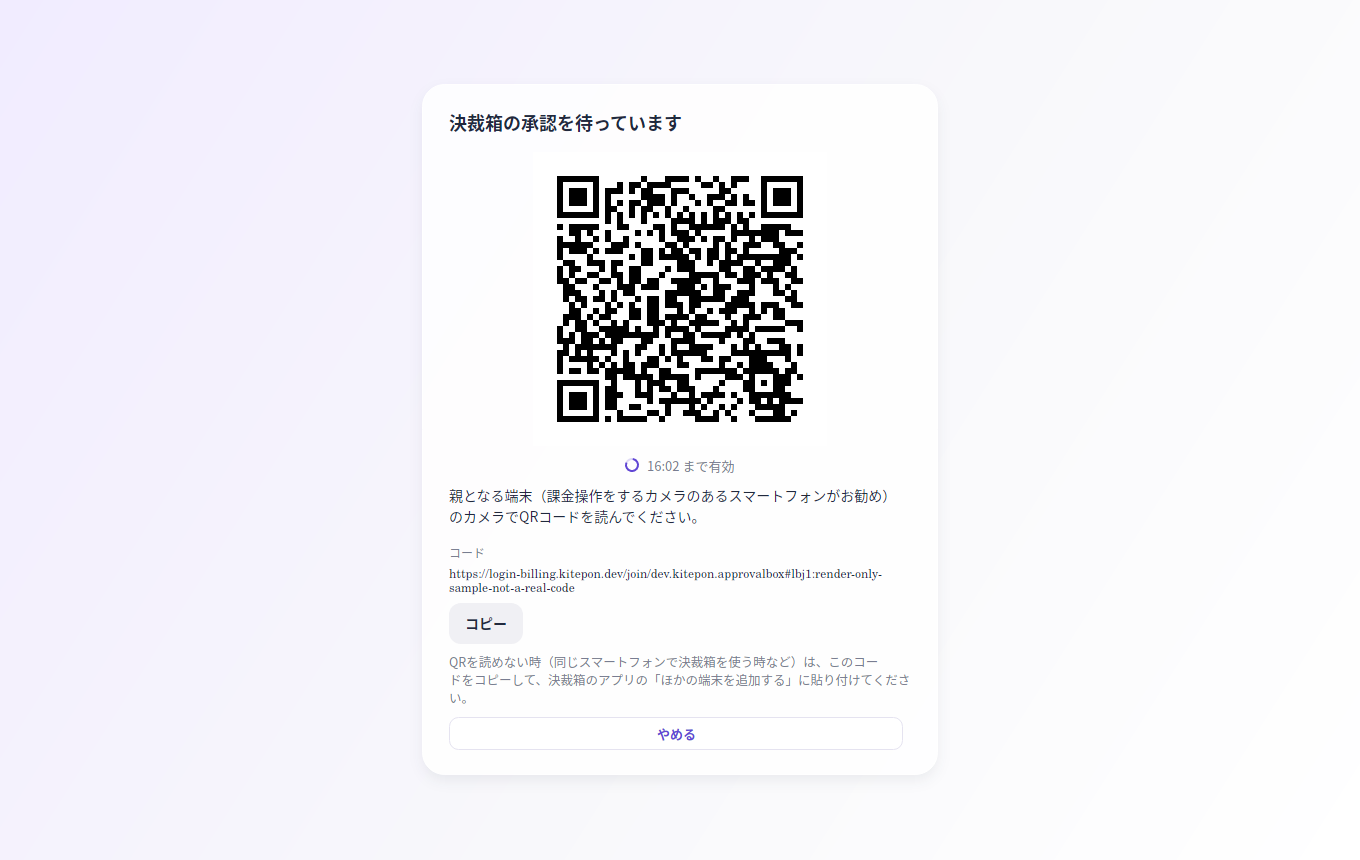
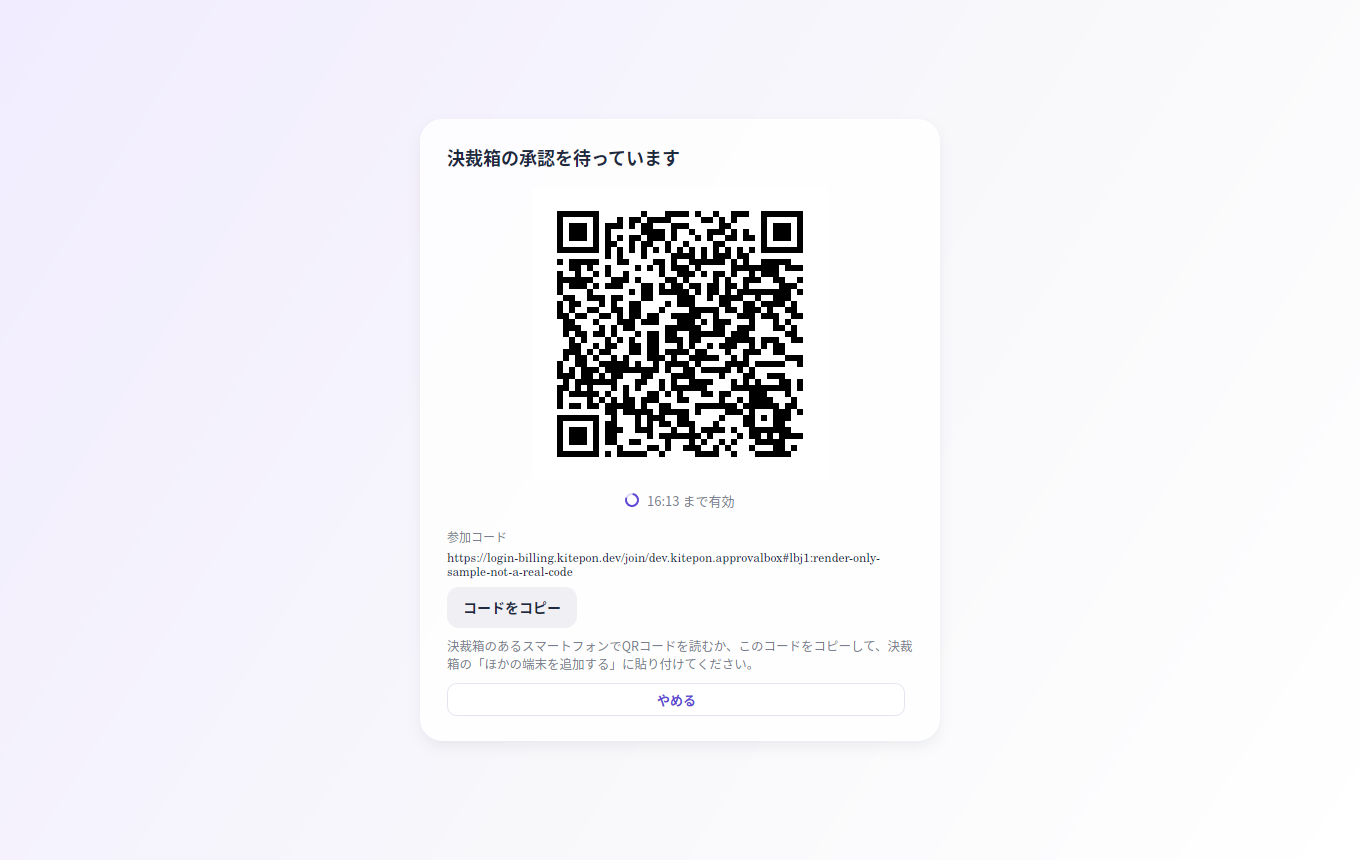
Screens and docs for the phone's open-in-決裁箱 action

Changed region(s): [[0.3088, 0.1209, 0.6485, 0.8767], [0.5868, 0.5744, 0.6485, 0.6047], [0.6485, 0.7256, 0.6794, 0.7558]]

diff --git a/docs/linux-architecture.md b/docs/linux-architecture.md
@@ -145,7 +145,7 @@ Mac版と同じ構成で、[Windowsアーキテクチャ](windows-architecture.m
 - AIの設定のClaudeの行は、枠名が「1つ目のアカウント」「2つ目のアカウント」（`AccountText.SlotName`）、上限は1行（`AccountText.LimitLine`。「上限中・M/D HH:mmに戻ります（いまは2つ目で動いています）」）、使っているメンバーは人数だけを出す（`AccountText.UsersLine`。Botの`account`から「いまN人がこのアカウントで動いています」、古い本体は「N人が使用」。名前もidも並べない。[settings-user-flow](architecture/modules/apple/settings-user-flow.md) B20。Windowsと同じ読み）。
 - 工程表の過去ログ（a457。契約は[Lattice](architecture/modules/lattice/README.md)の`history`と画面仕様の過去ログ、読み方はCoreの`LatticeHistoryFeed`・`LatticeChart.WithHistory`。AndroidはこのLinuxの画面をそのまま使う）：スナップショットの`cards`は開いたツリーだけで、閉じたツリーの終わった工程は`GET /api/lattice/charts/:id/history`から、**過去ログを開いた時だけ**読む（開いた時に1頁（limit 50）、一覧の末尾までスクロールしたら`next`で次の頁）。切り替えの数は`cards`の終わった工程＋`history.closed`で、要求は要らない。同じidはスナップショットの札を採り、頁の人物は名簿に足す。`history.closed`が開いている間に変われば頁を捨てて先頭頁を読み直し、過去ログを離れる・工程表を替える・閉じると頁を捨てる（保存しない）。頁が読めなければ今ある行を残し、末尾に「続きを読めませんでした。」と「読み直す」を出し、1, 2, 4 … 30秒で自動に読み直し続ける（読み直すは待たずに今すぐ）。404（古いサーバー）はその工程表では以後頁を求めず、スナップショットの行だけを出す。詳細は頁の札のまま開き、前の工程は出さない。ツリー・担当・数・段・線は今まで通り。
 - 工程表一覧の催促バッジ（chart-nudge-badge-linux、オーナー 2026-11-27。AndroidはこのLinuxの画面をそのまま使う）：`GET /api/lattice/charts`の各行の`reminders`（Lattice L25。スナップショットとSSEには無いので、一覧を読み直した時に変わる）が`true`の工程表のカード（ピン留めも「すべての工程表」も）に、接続バッジの右へ鐘の「催促」バッジを出す。`false`と項目なしは出さない（Core `LatticeChartSummary.Reminders`→`LatticeListItem.Reminders`、描画は`LatticeWindow.ListCard`。見た目はMac版（ラピ）に合わせる前の暫定）。画面: [docs/linux-lattice-list-nudge.png](linux-lattice-list-nudge.png)。
-- 参加のコードとlogin-billing 0.25.1（lb-0251-join-code-linux-android・abx-same-phone-join-android、オーナー 2026-11-27 K-A9DW3Q、契約1.60/1.61）：QRの横に、ライブラリの出す参加のコード（親アプリへのリンク。本人確認のトークンを含むので貼り付けて使う）を選べる文字とコピーのボタンで出す。出す場所は2つで、BellTeam自身のアカウントカード（`LinuxAccountCard`、`request.Code`、`parentAppId` は `dev.kitepon.bellbot`）と、決裁箱の参加画面（`ApprovalsChildJoin`、部品0.6.0の`JoinState.Code`、親は決裁箱アプリ）。コードが無ければ出さない。決裁箱の参加の失敗は、部品の`JoinState.Words`（local_network_denied・not_answering・unreachable_same_wifiのライブラリの文）をそのまま出す（other_accountだけ自前の文）。描画は`JoinCodeView`（AndroidはこのLinuxの画面部品を共有）。Androidだけ、承認側（`ApprovePanel`）にコードの貼り付け欄、`ReturnLink`のリンクを開く・コピー、原因の文（`LocalWords.Ja`）があり、待つ側（アカウントカードと決裁箱の参加）は戻りリンク（lbr1）を`JoinLink.Takers`から`LocalForm.TakeAsync`へ渡す。
+- 参加のコードとlogin-billing 0.25.1（lb-0251-join-code-linux-android・abx-same-phone-join-android、オーナー 2026-11-27 K-A9DW3Q、契約1.60/1.61）：QRの横に、ライブラリの出す参加のコード（親アプリへのリンク。本人確認のトークンを含むので貼り付けて使う）を選べる文字とコピーのボタンで出す。出す場所は2つで、BellTeam自身のアカウントカード（`LinuxAccountCard`、`request.Code`、`parentAppId` は `dev.kitepon.bellbot`）と、決裁箱の参加画面（`ApprovalsChildJoin`、部品0.6.0の`JoinState.Code`、親は決裁箱アプリ）。コードが無ければ出さない。決裁箱の参加の失敗は、部品の`JoinState.Words`（local_network_denied・not_answering・unreachable_same_wifiのライブラリの文）をそのまま出す（other_accountだけ自前の文）。描画は`JoinCodeView`（AndroidはこのLinuxの画面部品を共有）。電話（Android。`JoinCodeView.OpenOnThisPhone`をMainActivityが入れる）では決裁箱の参加画面の最初の操作が「決裁箱で開く」（同じスマートフォンの決裁箱のApp Linkでコードを開く）で、説明文は同じスマートフォンとほかの端末の両方を書き、PCの「QRを読んでください」の文は出さない。PCは開くボタンもその文もそのまま。Androidだけ、承認側（`ApprovePanel`）にコードの貼り付け欄、`ReturnLink`のリンクを開く・コピー、原因の文（`LocalWords.Ja`）があり、待つ側（アカウントカードと決裁箱の参加）は戻りリンク（lbr1）を`JoinLink.Takers`から`LocalForm.TakeAsync`へ渡す。
 - 決裁箱（Approval Box拡張。[screen-spec](architecture/modules/approval-box-extension/screen-spec.md)、[契約](architecture/modules/approval-box-extension/contract/approvals-contract.md)。task a184）：入口は左の欄の最上段の行（検索欄の下、メンバーの一覧の上。決裁箱・回答待ちの件数・急ぎは琥珀の稲妻。待ちが1件以上なら輪郭と光、0なら「待っている決裁はありません」）。押すと別窓`ApprovalsWindow`（1360×860・最小1100×640・1つだけ）が開き、一覧｜詳細｜工程とのつながりの3列を出す。読み手は`ApprovalsHub`が持つ`ApprovalsFeed`1つで、アプリが接続した間だけsummaryとSSEを読み、窓が開いていなくても入口の数が動く（Core。読めない時だけ1, 2, 4 … 30秒で読み直し続け、404・402・403・409とログイン切れは待たずに止まって「読み直す」「契約を確かめる」「決裁箱につなぐ」で抜ける）。窓は`pending,held`の一覧を決定の通知（SSE）と再接続のたびに読み直し、済みは開いた時だけ読む。答えは選択肢→確認→「答える」の2段で、同じ押下はIdempotency-Keyを変えず、自動で再送しない。「工程表との連携」のつなぐは決裁箱の同意画面を既定のブラウザー（xdg-open）で開き、窓は`GET /api/approvals/connection`を2秒ごとに読んで許可・拒否・期限切れを表す（コードは見せない）。「工程表で見る」「工程表の工程を開く」は工程表の窓でその工程を開き、工程表の詳細の「決裁」欄の「決裁を開く」はこの窓でその決裁を選ぶ。外部から届いた決裁（Claude Code・Codexなど）も隠さず、同じく答えられる。画面の描画の確認は`--render-approvals-device <場面> <PNG>`（`ApprovalsDeviceRender.cs`と、結びつき・連携だけを返す`ApprovalsFixture`）。サーバー読み取りの旧`--render-approvals`は無い。
 - 工程表の窓の「接続」パネルは（Windowsのa161・Appleのa165と同じ。カードの`connections`の開いた項目だけが行になり、他条件に接続・優先接続は線にしない。前工程は線のまま「前工程：◯◯」の札、接続のあるカードは「接続 N」の札、数の帯は作業中・接続・ブロック、メンバーの列と一覧の札も接続の数。Coreの`LatticeChart.ConnectionRows`・`OpenConnections`、行の「工程へ移動」は別の工程表の工程なら`LatticeWindow.OpenCard`でその工程表の詳細を開く。task a166-linux）、Mac版と同じく既定で閉じて右端のつまみ（つなぎの印と件数。作り手がブロック中の行があれば件数を赤）にし、つまみで開いてパネルの閉じるで畳む。開閉はアプリを開いている間だけ`LatticeChartPage.WaitsOpen`が覚える（保存しない）。上の帯は「切り替え・ライブ・ツリー/担当/過去ログ N」と「進み具合・数」の2つのまとまりで、1行に入らない幅では後ろのまとまりを2行目へ送る（Owner 2026-11-14、task a75）。進み具合の輪の数は、3桁でも輪の内側に収まる大きさへ縮める。
 - 工程表の窓の一番左上は切り替えのボタン（戻る矢印・工程表の名前・下向きの印）で、押すと一覧（すべての工程表）へ1回で移る。一覧は縦に送る1枚の画面で、工程表が何枚でも全部選べる。Mac版の切り替えの小窓（行が440ptを超えると送る）と左上の「すべての工程表」ボタンは、Linuxでは切り替え自体が一覧を開くため足さない（Windowsと同じ。task a88）。一覧と「工程表が1枚だけならそれを開く」は、一覧の`counts.total`が0の工程表を数えず出さない（Coreの`LatticeChart.Shown`。Owner 2026-11-14、task a107）。本体の一覧は全部を保ったまま読み、会話の右の欄のボタンと工程へ移動はその工程表も開く。
